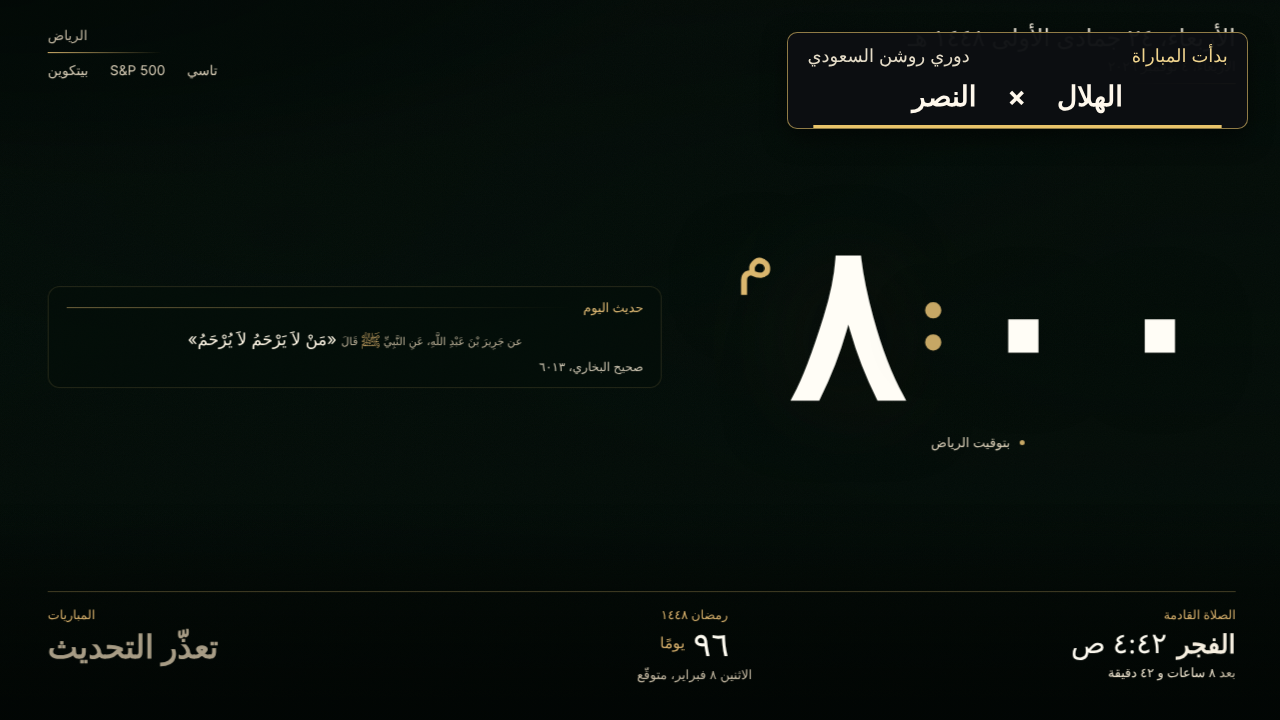
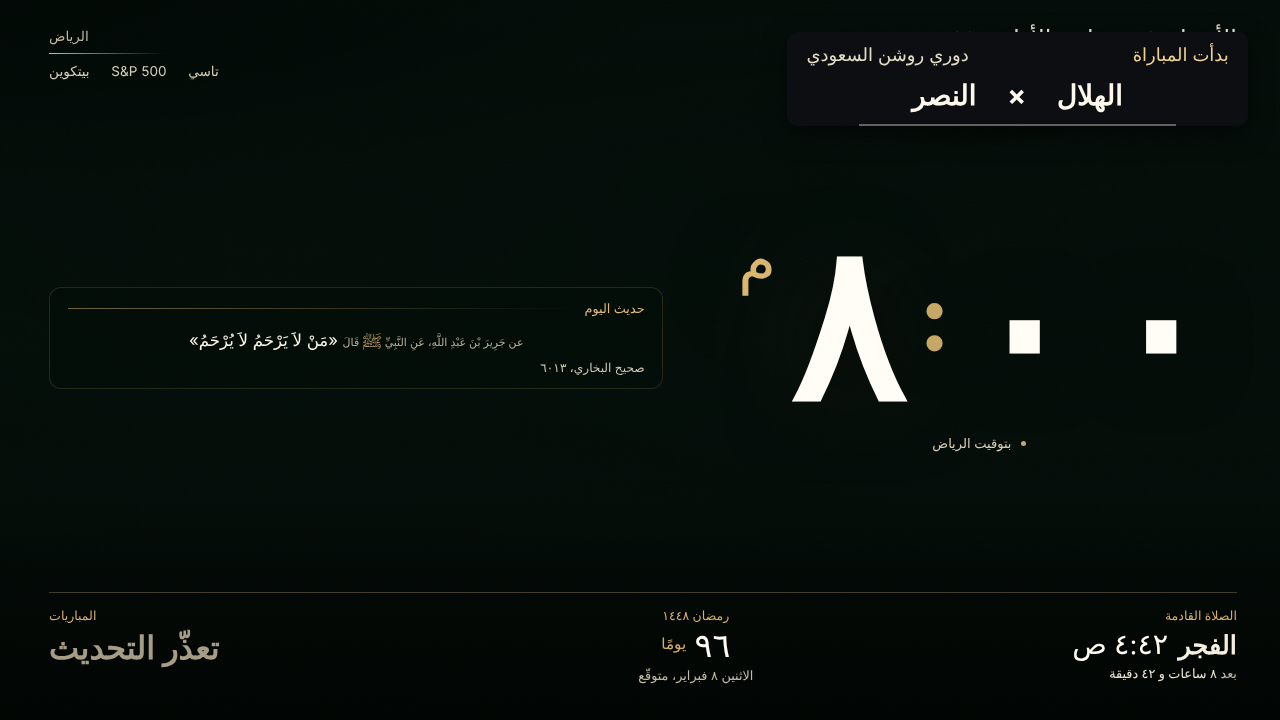
kick-off notice (the UI review): no edge (a goal's green one too), a flat opaque fill (.97 let the page's date read), the timer bar neutral white at 35 % with square ends, 3 px at 1080; on the home, the add-on, «جرّب التنبيه» and the page; pinned in kickoff_test

diff --git a/src/sports.js b/src/sports.js
@@ -61,16 +61,16 @@ html.sptake:not(.widget) .mid .clockwrap{display:none}
 html.sptake:not(.widget) .mid .week.sptk{grid-column:1/-1;font-size:1.25em}
 .spclk{font-weight:400;opacity:.85}
 /* the notice (spKick): the top right of the screensaver, 8 s, cream text on nearly solid dark glass (nothing reads through it) */
-#spkick{position:fixed;top:4.5vh;right:2.5vw;width:min(36vw,700px);z-index:60;border-radius:1.4vh;background:rgba(12,14,18,.97);
-  border:1px solid rgba(233,196,106,.6);box-shadow:0 1.2vh 3.2vh rgba(0,0,0,.5);color:#F4EBD8;padding:1.3vh 1.5vw 0;font-size:max(2.5vh,13px);line-height:1.45;overflow:hidden;
+#spkick{position:fixed;top:4.5vh;right:2.5vw;width:min(36vw,700px);z-index:60;border-radius:1.4vh;background:rgb(12,14,18);   /* the UI review: a flat opaque fill, no edge (even .97 let the page's date read through) */
+  
+  box-shadow:0 1.2vh 3.2vh rgba(0,0,0,.5);color:#F4EBD8;padding:1.3vh 1.5vw 0;font-size:max(2.5vh,13px);line-height:1.45;overflow:hidden;
   transition:transform .45s ease,opacity .45s ease;text-align:center}
 #spkick.out{transform:translateX(calc(100% + 4vw));opacity:0}   /* the top right in both languages (the owner's corner), so it leaves to the right */
 #spkick .kt{display:flex;justify-content:space-between;gap:1em;color:#F0D48E;font-weight:500}#spkick .kt i{font-style:normal;color:#E5DCC8;font-weight:400}
 #spkick .km{display:flex;align-items:center;justify-content:center;gap:1.1em;margin:1vh 0 1.2vh;font-size:1.55em;font-weight:700;color:#FFF8EC}
 #spkick .km .kcr{width:.9em;height:.9em;object-fit:contain;vertical-align:-.12em;margin:0 .3em}
-#spkick .kb{height:.35vh;margin:0 -1.5vw;background:#E9C46A;transform-origin:inline-end;animation:spkb 8s linear forwards}
+#spkick .kb{height:max(2px,.28vh);margin:0 -1.5vw;background:rgba(255,255,255,.35);border-radius:0;transform-origin:inline-end;animation:spkb 8s linear forwards}
 @keyframes spkb{to{transform:scaleX(0)}}
-#spkick.goal{border-color:#3BB273}
 /* on the home the page is only the card's own window: the goal and the final score (the kick-off is the launcher's own, at the screen's corner)
    as a band over the card's top, the card's size; in the couch strip one line, the clubs and the score */
 html.widget #spkick{top:.45em;left:.45em;right:.45em;width:auto;font-size:13px;border-radius:.7em;padding:.45em .9em 0}

diff --git a/tests/kickoff_test.py b/tests/kickoff_test.py
@@ -63,7 +63,7 @@ check("the add-on side: the provider answers «notice» (draws it) and says CAN_
       and "Extras.notice(b)" in ovn and "Extras.canDraw()" in ovn)
 check("the home's notice in its own window stays (no permission needed), and no TYPE_APPLICATION_OVERLAY is left anywhere in the home",
       "static boolean showIn(" in over and not [p.name for p in HOME.rglob("*.java") if "TYPE_APPLICATION_OVERLAY" in read(p)])
-check("the notice over another app: cream text on dark glass, top right (the add-on's window), 8 s", "CREAM = 0xFFFFF8EC" in xnote and "0xE60C0E12" in xnote and "Gravity.TOP | Gravity.RIGHT" in xnote and "SHOW_MS = 8_000L" in xnote, "colour")
+check("the notice over another app: cream text on the flat dark fill, top right (the add-on's window), 8 s", "CREAM = 0xFFFFF8EC" in xnote and "bg.setColor(0xFF0C0E12);" in xnote and "Gravity.TOP | Gravity.RIGHT" in xnote and "SHOW_MS = 8_000L" in xnote, "colour")
 check("the whistle is a notification sound that ducks the TV (never a music stream)", "USAGE_NOTIFICATION_EVENT" in whistle and "AUDIOFOCUS_GAIN_TRANSIENT_MAY_DUCK" in whistle)
 check("the home's card asks the page for its list (no JavaScript interface, only while in front)",
       "addJavascriptInterface" not in card and "spKickList()" in card and "idle.removeCallbacks(kickPull);   // 4.4" in card)
@@ -113,9 +113,16 @@ check("the clubs on the notice: no colour square anywhere (home, add-on, the pag
       "swatch(" not in over and "swatch(" not in xnote and "swatch(" not in tryj and "spsw" not in js.split("function spKick(", 1)[1].split("\n}", 1)[0]
       and "const sw = id => id ? spCrest(id, 'kcr') : '';" in js and "hid: String(e2.idHomeTeam), aid: String(e2.idAwayTeam)" in js
       and "hid: String(ev.idHomeTeam), aid: String(ev.idAwayTeam)" in js and "const spCrestOf = id =>" in js and 'onerror="this.remove()"' in js)
-check("…the notices' look and timing unchanged: 8 s, the top right, the slide of 450 ms, the dark glass with the gold edge, the names at 38 and the head at 24",
-      over.count("SHOW_MS = 8_000L") == 1 and "Gravity.TOP | Dir.start(true)" in over and over.count("setDuration(450)") == 2 and "bg.setColor(0xE60C0E12)" in over
-      and "bg.setStroke(Math.max(1, (int) (2 * u)), 0x99E9C46A)" in over and 'text(c, "  " + g.h + "   ×   " + g.a + "  ", CREAM, 38 * u, true)' in over
+_spk = js.split("#spkick{", 1)[1].split("@keyframes", 1)[0]
+check("the UI review: no edge on any notice (home, add-on, «جرّب التنبيه», the page; a goal's green edge too), a flat OPAQUE fill (.97 let the page's date read)",
+      not any("setStroke(" in x for x in (over, xnote, tryj)) and all("bg.setColor(0xFF0C0E12);" in x for x in (over, xnote, tryj))
+      and "border:" not in _spk and "background:rgb(12,14,18);" in _spk and "#spkick.goal{border-color" not in js)
+check("the UI review: the timer bar neutral (white at 35 %), square ends, 3 px at 1080 and 2 at 720, never gold",
+      "#spkick .kb{height:max(2px,.28vh);margin:0 -1.5vw;background:rgba(255,255,255,.35);border-radius:0;" in js and "#E9C46A" not in js.split("#spkick .kb{", 1)[1][:200]
+      and "bar.setBackgroundColor(0x59FFFFFF);" in tryj and "new LinearLayout.LayoutParams(-1, Math.max(2, Math.round(3 * u)))" in tryj and "g.setColor(GOLD)" not in tryj)
+check("…the notices' look and timing unchanged: 8 s, the top right, the slide of 450 ms, the names at 38 and the head at 24",
+      over.count("SHOW_MS = 8_000L") == 1 and "Gravity.TOP | Dir.start(true)" in over and over.count("setDuration(450)") == 2
+      and 'text(c, "  " + g.h + "   ×   " + g.a + "  ", CREAM, 38 * u, true)' in over
       and 'text(c, S.t("بدأت المباراة"), GOLD, 24 * u, false)' in over and "(int) (dm.widthPixels * 0.36f)" in over
       and "mid.addView(text(c, line, CREAM, 38 * u, true));" in xnote and "SHOW_MS = 8_000L" in xnote
       and "SHOW_MS = 8000" in tryj and "setDuration(450)" in tryj and "}, 8000);" in js.split("function spKick(", 1)[1].split("\n}", 1)[0])

diff --git a/android/app/src/main/java/sa/urtv/screensaver/KickoffTry.java b/android/app/src/main/java/sa/urtv/screensaver/KickoffTry.java
@@ -53,9 +53,8 @@ final class KickoffTry {
         box.setLayoutDirection(Dir.layout());
         box.setFocusable(false);
         GradientDrawable bg = new GradientDrawable();
-        bg.setColor(0xE60C0E12);
+        bg.setColor(0xFF0C0E12);   // the UI review: a flat opaque fill, no edge (nothing behind reads)
         bg.setCornerRadius(18 * u);
-        bg.setStroke(Math.max(1, Math.round(2 * u)), 0x99F0D48E);
         box.setBackground(bg);
         int pad = Math.round(22 * u);
         box.setPadding(pad, Math.round(16 * u), pad, Math.round(18 * u));
@@ -66,11 +65,8 @@ final class KickoffTry {
         box.addView(top);
         box.addView(text(a, "  " + (S.en() ? "Al Hilal" : "الهلال") + "   ×   " + (S.en() ? "Al Nassr" : "النصر") + "  ", CREAM, 38 * u, true));   // sample clubs: names, not words to translate
         View bar = new View(a);
-        GradientDrawable g = new GradientDrawable();
-        g.setColor(GOLD);
-        g.setCornerRadius(2 * u);
-        bar.setBackground(g);
-        LinearLayout.LayoutParams bp = new LinearLayout.LayoutParams(-1, Math.max(2, Math.round(4 * u)));
+        bar.setBackgroundColor(0x59FFFFFF);   // the timer: neutral white at 35 %, square ends, 3 px at 1080 (2 at 720)
+        LinearLayout.LayoutParams bp = new LinearLayout.LayoutParams(-1, Math.max(2, Math.round(3 * u)));
         bp.topMargin = Math.round(12 * u);
         box.addView(bar, bp);
         bar.post(() -> { bar.setPivotX(Dir.rtl() ? 0 : bar.getWidth()); bar.animate().scaleX(0).setDuration(SHOW_MS).start(); });

diff --git a/android/extras/src/main/java/sa/urtv/home/ExtrasNotice.java b/android/extras/src/main/java/sa/urtv/home/ExtrasNotice.java
@@ -87,9 +87,8 @@ final class ExtrasNotice {
         box.setOrientation(LinearLayout.VERTICAL);
         box.setLayoutDirection(rtl ? View.LAYOUT_DIRECTION_RTL : View.LAYOUT_DIRECTION_LTR);
         GradientDrawable bg = new GradientDrawable();
-        bg.setColor(0xE60C0E12);
+        bg.setColor(0xFF0C0E12);   // the UI review: a flat opaque fill, no edge (nothing behind reads)
         bg.setCornerRadius(28 * u);
-        bg.setStroke(Math.max(1, (int) (2 * u)), 0x99E9C46A);
         box.setBackground(bg);
         int pad = (int) (28 * u);
         box.setPadding(pad, (int) (22 * u), pad, (int) (24 * u));

diff --git a/android/launcher/src/main/java/sa/urtv/home/KickoffOverlay.java b/android/launcher/src/main/java/sa/urtv/home/KickoffOverlay.java
@@ -52,9 +52,8 @@ final class KickoffOverlay {
         box.setOrientation(LinearLayout.VERTICAL);
         box.setLayoutDirection(Dir.layout());
         GradientDrawable bg = new GradientDrawable();
-        bg.setColor(0xE60C0E12);
+        bg.setColor(0xFF0C0E12);   // the UI review: a flat opaque fill, no edge (nothing behind reads)
         bg.setCornerRadius(28 * u);
-        bg.setStroke(Math.max(1, (int) (2 * u)), 0x99E9C46A);
         box.setBackground(bg);
         int pad = (int) (28 * u);
         box.setPadding(pad, (int) (22 * u), pad, (int) (24 * u));
